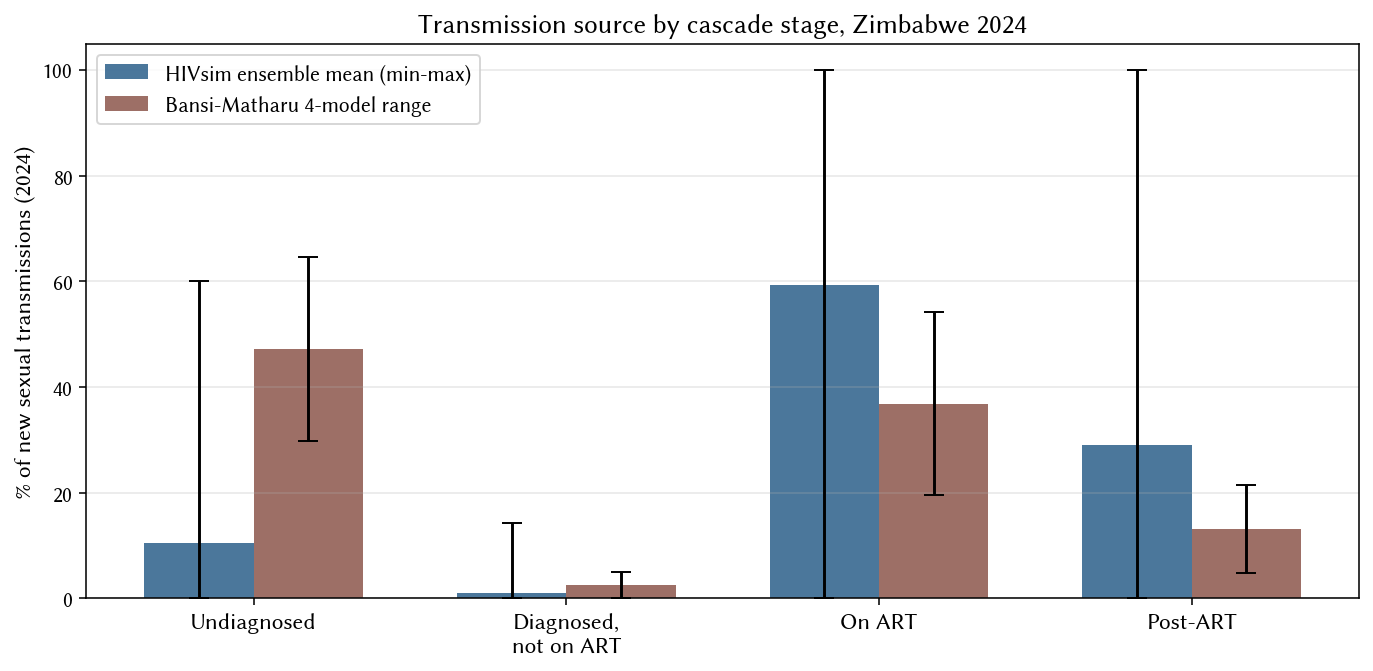
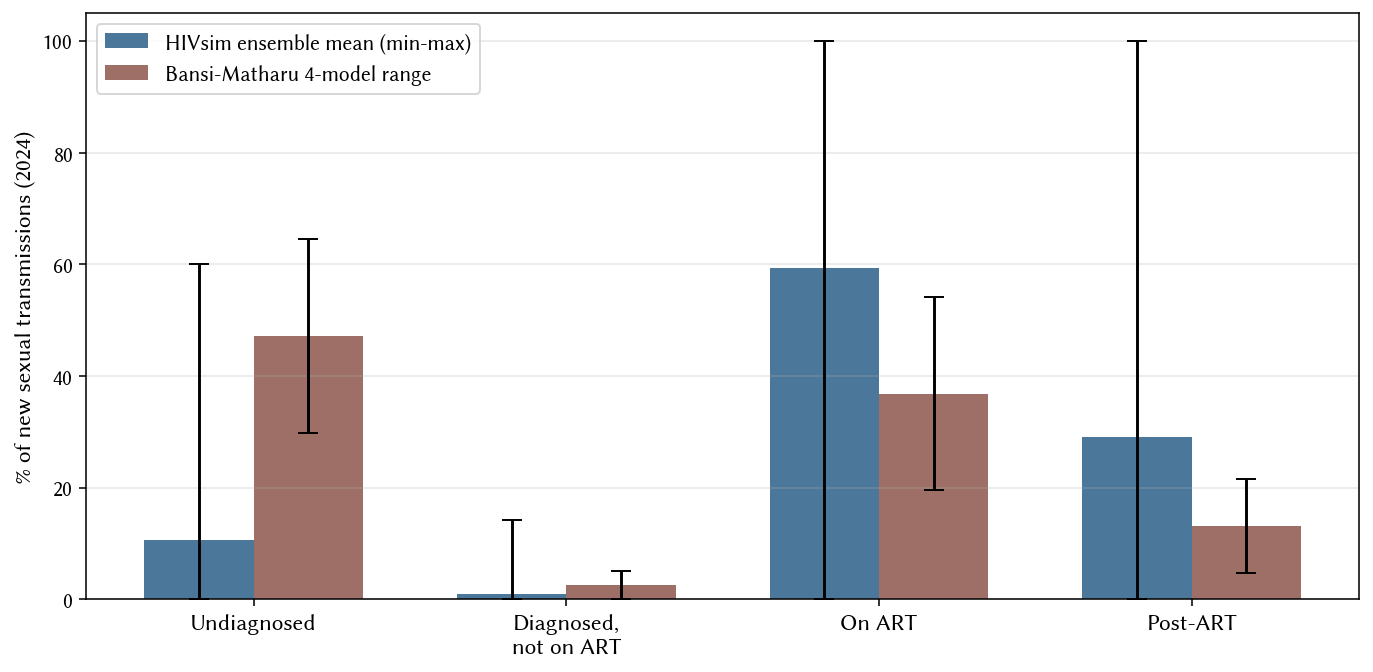
Add calibration spaghetti Supp Fig S2; strip all figure suptitles
- plot_calibration_spaghetti.py: 30 sustaining draws vs UNAIDS, coloured
  by hiv.beta_m2f quintile. Low-beta draws (purple) undershoot; high-beta
  (yellow) overshoot; UNAIDS sits mid-ensemble.
- All plot scripts: remove fig.suptitle / single-panel ax.set_title so
  figures land clean on slides. Titles moved into figure captions in
  the preprint.
- preprint: cite Supp Fig S2 in §3.1; add plot invocation to code block.

diff --git a/plot_calibration_spaghetti.py b/plot_calibration_spaghetti.py
@@ -1,0 +1,119 @@
+"""
+Calibration draw spaghetti: HIVsim's 30 sustaining draws vs UNAIDS.
+
+Each draw is plotted as a thin line (mean across its K seeds), coloured
+by its `hiv.beta_m2f` quintile so the reader can see how the calibrated
+transmission rate maps to trajectory shape. UNAIDS surveillance is
+overlaid as red dots.
+
+Panels: HIV prevalence 15-49, PLHIV, new infections/yr, AIDS deaths/yr.
+
+Intended as a supplementary calibration-transparency figure showing the
+ensemble spread underneath the median + 5-95th percentile band in
+Supplementary Figure S1.
+
+Usage:
+    python plot_calibration_spaghetti.py
+"""
+
+from pathlib import Path
+
+import matplotlib.pyplot as plt
+import numpy as np
+import pandas as pd
+
+from utils import set_font
+
+set_font(size=13)
+
+REPO = Path(__file__).resolve().parent
+OUT = REPO / 'outputs' / 'zimbabwe_validation.parquet'
+DRAWS_CSV = REPO / 'calibration' / 'artifacts' / 'draws_sustaining_top30.csv'
+FIG_DIR = REPO / 'figures'
+FIG_DIR.mkdir(exist_ok=True)
+
+
+def load_calibration_target():
+    p = REPO / 'data' / 'zimbabwe_hiv_calib.csv'
+    d = pd.read_csv(p)
+    d['hiv_prevalence_pct'] = d['hiv_prevalence'] * 100
+    d['hiv_prevalence_15_49_pct'] = d['hiv_prevalence_15_49'] * 100
+    return d
+
+
+def draw_beta_quintiles():
+    draws = pd.read_csv(DRAWS_CSV)
+    q = pd.qcut(draws['hiv.beta_m2f'], 5, labels=[1, 2, 3, 4, 5]).astype(int)
+    return dict(zip(draws.draw_idx.astype(int), q))
+
+
+def plot_panel(ax, ts, col, title, ylabel, calib_target=None, calib_col=None,
+               cmap='viridis'):
+    """Plot one line per draw (mean across seeds), coloured by beta quintile."""
+    quintiles = draw_beta_quintiles()
+    cmap_obj = plt.get_cmap(cmap)
+    # Mean across seeds per (draw, year)
+    per_draw = ts.groupby(['draw_idx', 'year'])[col].mean().reset_index()
+    for draw_idx, g in per_draw.groupby('draw_idx'):
+        q = quintiles.get(int(draw_idx), 3)
+        colour = cmap_obj((q - 1) / 4.0)
+        ax.plot(g.year, g[col], color=colour, lw=0.9, alpha=0.75)
+    if calib_target is not None and calib_col is not None:
+        ax.scatter(calib_target.time, calib_target[calib_col],
+                   marker='o', s=22, color='#c44e52',
+                   label='UNAIDS', zorder=5)
+    ax.set_title(title, fontsize=13)
+    ax.set_ylabel(ylabel, fontsize=12)
+    ax.tick_params(labelsize=11)
+    ax.set_xlim(1990, 2040)
+    ax.grid(alpha=0.3)
+
+
+def main():
+    df = pd.read_parquet(OUT)
+    calib = load_calibration_target()
+
+    fig, axes = plt.subplots(1, 4, figsize=(10, 5), sharex=True)
+
+    plot_panel(axes[0], df, 'prev_15_49_pct',
+               'HIV prevalence 15-49 (%)', '%',
+               calib, 'hiv_prevalence_15_49_pct')
+
+    plot_panel(axes[1], df, 'plhiv',
+               'PLHIV (all ages)', 'count',
+               calib, 'hiv_n_infected')
+    axes[1].ticklabel_format(axis='y', style='sci', scilimits=(0, 0))
+
+    plot_panel(axes[2], df, 'new_infections_per_year',
+               'New infections / year', 'count',
+               calib, 'hiv_new_infections')
+    axes[2].ticklabel_format(axis='y', style='sci', scilimits=(0, 0))
+
+    plot_panel(axes[3], df, 'aids_deaths_per_year',
+               'AIDS-related deaths / year', 'count',
+               calib, 'hiv_new_deaths')
+    axes[3].ticklabel_format(axis='y', style='sci', scilimits=(0, 0))
+
+    for ax in axes:
+        ax.set_xlabel('Year', fontsize=11)
+
+    # Colourbar-style legend for beta quintiles
+    cmap_obj = plt.get_cmap('viridis')
+    legend_handles = [
+        plt.Line2D([0], [0], color=cmap_obj(i / 4.0), lw=2.5,
+                   label=f'β Q{i+1}') for i in range(5)
+    ]
+    legend_handles.append(plt.Line2D([0], [0], marker='o', color='w',
+                                     markerfacecolor='#c44e52', markersize=8,
+                                     label='UNAIDS'))
+    fig.legend(handles=legend_handles, loc='lower center', ncol=6,
+               fontsize=11, bbox_to_anchor=(0.5, -0.05), frameon=False)
+
+    fig.tight_layout(rect=[0, 0.04, 1, 1.0])
+    out = FIG_DIR / 'calibration_spaghetti.png'
+    fig.savefig(out, dpi=140, bbox_inches='tight')
+    print(f'wrote {out}')
+
+
+if __name__ == '__main__':
+    main()

diff --git a/plot_paper_b.py b/plot_paper_b.py
@@ -100,9 +100,7 @@ def plot_cascade(df):
     axes[0].set_ylabel('Percent', fontsize=12)
     axes[0].legend(loc='lower right', fontsize=10)
 
-    fig.suptitle('HIV treatment cascade for Zimbabwe (HIVsim vs 95-95-95 target)',
-                 fontsize=14, y=1.00)
-    fig.tight_layout(rect=[0, 0, 1, 0.95])
+    fig.tight_layout()
     out = FIG_DIR / 'paper_b_cascade.png'
     fig.savefig(out, dpi=140, bbox_inches='tight')
     print(f'wrote {out}')
@@ -141,8 +139,6 @@ def plot_transmission_by_stage(df, year=2024):
     ax.set_xticklabels(stage_labels, fontsize=12)
     ax.tick_params(axis='y', labelsize=11)
     ax.set_ylabel(f'% of new sexual transmissions ({year})', fontsize=12)
-    ax.set_title(f'Transmission source by cascade stage, Zimbabwe {year}',
-                 fontsize=14)
     ax.grid(alpha=0.3, axis='y')
     ax.legend(fontsize=11)
     fig.tight_layout()

diff --git a/plot_fig3_replica.py b/plot_fig3_replica.py
@@ -112,9 +112,7 @@ def main():
     ax.legend(loc='lower center', bbox_to_anchor=(0.4, -0.42), fontsize=10,
               frameon=False, ncol=2, handlelength=1.4)
 
-    fig.suptitle('HIV transmission source by cascade stage — Zimbabwe',
-                 fontsize=14, y=1.00)
-    fig.tight_layout(rect=[0, 0.02, 1, 0.96])
+    fig.tight_layout(rect=[0, 0.02, 1, 1.0])
     out = FIG_DIR / 'fig3_replica_zim.png'
     fig.savefig(out, dpi=140, bbox_inches='tight')
     print(f'wrote {out}')

diff --git a/plot_calibration_fit.py b/plot_calibration_fit.py
@@ -117,9 +117,7 @@ def main():
     fig.legend(handles, labels, loc='lower center', ncol=3, fontsize=11,
                bbox_to_anchor=(0.5, -0.06))
 
-    fig.suptitle('HIVsim Zimbabwe ensemble vs UNAIDS surveillance',
-                 fontsize=14, y=1.00)
-    fig.tight_layout(rect=[0, 0.04, 1, 0.96])
+    fig.tight_layout(rect=[0, 0.04, 1, 1.0])
     out = FIG_DIR / 'hivsim_vs_unaids_calibration.png'
     fig.savefig(out, dpi=140, bbox_inches='tight')
     print(f'wrote {out}')

diff --git a/plot_fig1_replica.py b/plot_fig1_replica.py
@@ -142,9 +142,7 @@ def main():
     fig.legend(handles, labels, loc='lower center', ncol=5, fontsize=10,
                bbox_to_anchor=(0.5, -0.05))
 
-    fig.suptitle('HIVsim Zimbabwe vs Bansi-Matharu et al. 2025, Fig 1B',
-                 fontsize=14, y=1.00)
-    fig.tight_layout(rect=[0, 0.03, 1, 0.96])
+    fig.tight_layout(rect=[0, 0.03, 1, 1.0])
 
     out = FIG_DIR / 'fig1_replica_zim.png'
     fig.savefig(out, dpi=140, bbox_inches='tight')

diff --git a/plot_fig2_replica.py b/plot_fig2_replica.py
@@ -88,8 +88,6 @@ def main():
     ax.set_xlabel('Year', fontsize=12)
     ax.set_ylabel('Mean age at HIV acquisition (years)', fontsize=12)
     ax.tick_params(labelsize=11)
-    ax.set_title('Mean age at HIV acquisition, Zimbabwe',
-                 fontsize=14)
     ax.grid(alpha=0.25)
     ax.legend(loc='center left', bbox_to_anchor=(1.01, 0.5), fontsize=10,
               frameon=False)

diff --git a/preprint/preprint.md b/preprint/preprint.md
@@ -98,7 +98,7 @@ We compare only on the standardised output indicators reported by Bansi-Matharu 
 
 We ran a 30-parameter-draw × 3-seed ensemble (90 simulations, 10 000 agents each) 1985-2040. Each draw carries the HIV-relevant posterior parameter values from the joint calibration (§2.4); stochastic seeds are paired to the source calibration via `seed = draw_idx × 1000 + sub_idx`. All 30 draws sustained the HIV epidemic through the projection window.
 
-Across the ensemble, the median HIV prevalence at 15-49 tracks the UNAIDS Zimbabwe surveillance curve through the epidemic peak (~26% at 2000) and the post-2000 decline; the empirical UNAIDS 15-49 estimate for 1990-2024 falls inside the 5-95th percentile band throughout. Whole-population PLHIV, new infections per year, and AIDS-related deaths from UNAIDS also lie inside the ensemble band, with AIDS deaths slightly overshooting the empirical 2005-2010 peak. Number on ART rises to the empirical Zimbabwe 2019 total (~1.15 million adults) and continues along the step-increasing `p_art` projection to 95% of PLHIV by 2025. The full six-panel calibration-fit comparison is shown in Supplementary Figure S1.
+Across the ensemble, the median HIV prevalence at 15-49 tracks the UNAIDS Zimbabwe surveillance curve through the epidemic peak (~26% at 2000) and the post-2000 decline; the empirical UNAIDS 15-49 estimate for 1990-2024 falls inside the 5-95th percentile band throughout. Whole-population PLHIV, new infections per year, and AIDS-related deaths from UNAIDS also lie inside the ensemble band, with AIDS deaths slightly overshooting the empirical 2005-2010 peak. Number on ART rises to the empirical Zimbabwe 2019 total (~1.15 million adults) and continues along the step-increasing `p_art` projection to 95% of PLHIV by 2025. The full six-panel calibration-fit comparison is shown in Supplementary Figure S1. Supplementary Figure S2 displays the underlying 30-draw spread, colour-coded by the calibrated male-to-female per-partnership transmission rate (β_m2f) quintile — showing that the ensemble uncertainty band reflects the joint calibration's posterior on β_m2f, with low-β draws undershooting and high-β draws overshooting the UNAIDS trajectory.
 
 ### 3.2 Comparison with the Bansi-Matharu multi-model figures
 
@@ -167,6 +167,7 @@ python plot_fig1_replica.py         # Fig 1
 python plot_fig2_replica.py         # Fig 2
 python plot_fig3_replica.py         # Fig 3
 python plot_calibration_fit.py      # Supplementary Fig S1
+python plot_calibration_spaghetti.py  # Supplementary Fig S2
 ```
 
 ---
